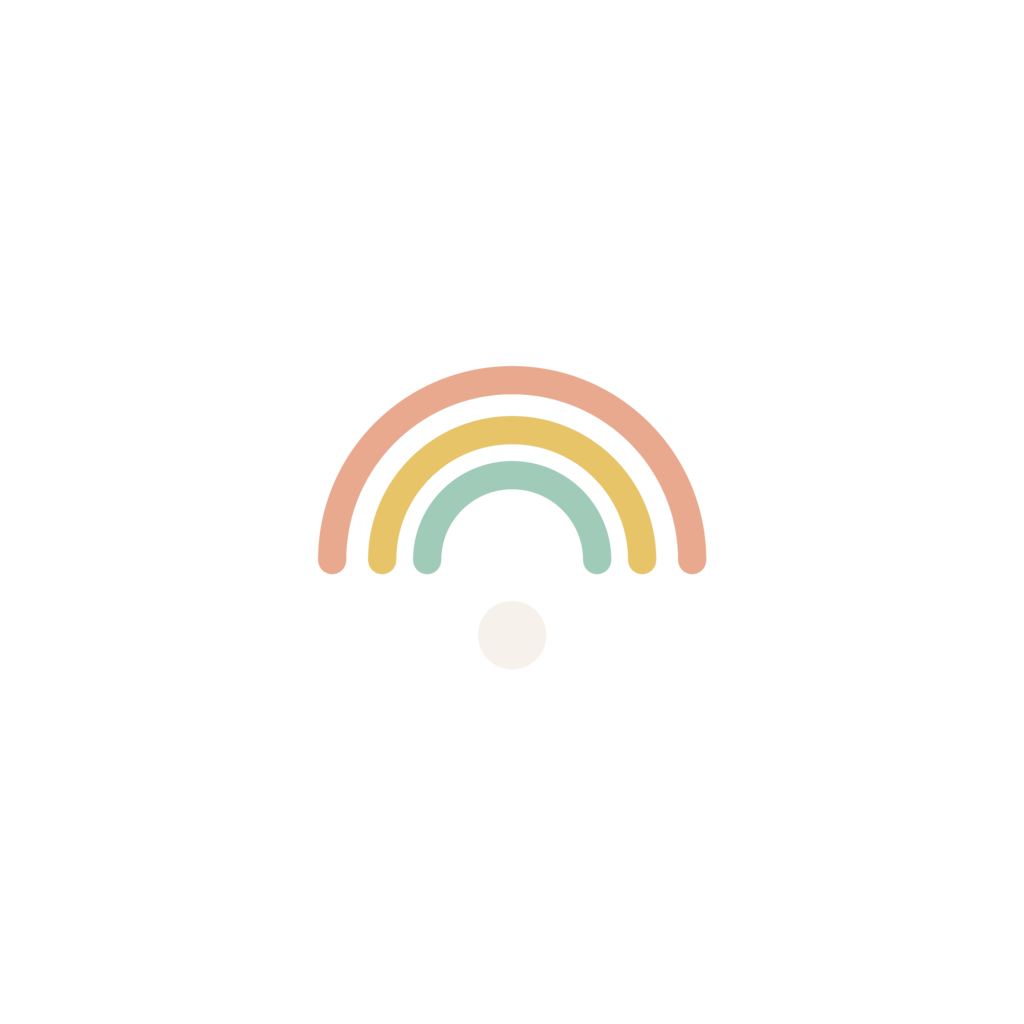
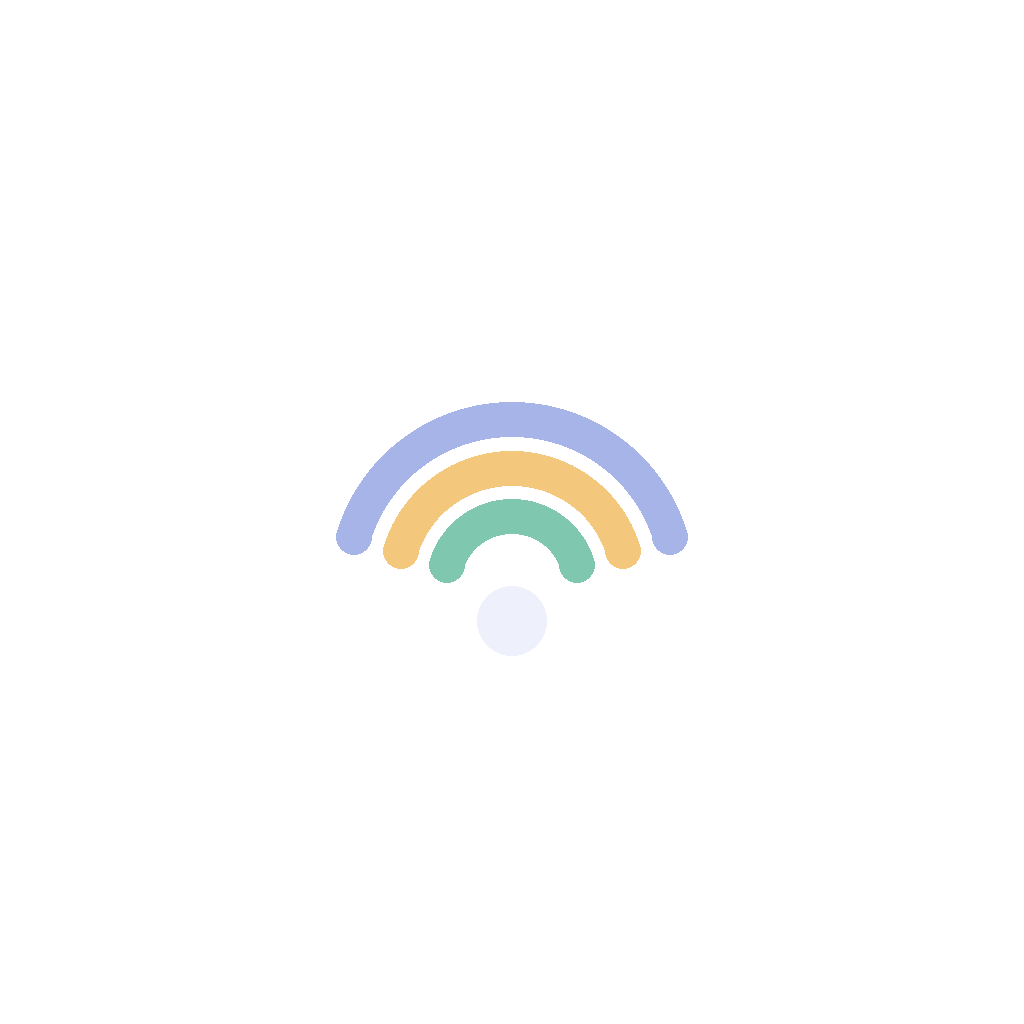
Midnight Signal rebrand: theme, brand assets, share page, defaults

Changed region(s): [[0.3125, 0.3438, 0.6875, 0.5625]]

diff --git a/src/lib/theme.ts b/src/lib/theme.ts
@@ -3,31 +3,38 @@
 // Large touch targets and generous spacing throughout, since chronic pain
 // and fatigue can affect fine motor control (Section 8 accessibility note).
 
+// "Midnight Signal" palette - matches the website's rebrand (deep indigo
+// night-sky world, lavender mist text, one warm golden accent). Dark mode is
+// the flagship look; light mode is a soft lavender paper, never stark white.
 export const lightTheme = {
   mode: "light" as const,
-  background: "#F6F1EB", // warm off-white, not clinical white
-  surface: "#FFFFFF",
-  text: "#2B2622",
-  textMuted: "#6B6259",
-  primary: "#8A6552", // warm terracotta, not clinical blue/green
-  primarySoft: "#EFE0D6",
-  border: "#E3D8CC",
+  background: "#EDF0FA", // lavender paper, not stark white
+  surface: "#F8F9FE",
+  text: "#1C2240",
+  textMuted: "#545D8A",
+  primary: "#3E4C8F", // deep indigo
+  onPrimary: "#FFFFFF",
+  primarySoft: "#DDE3F8",
+  border: "#CDD4EE",
   danger: "#B3413A",
-  success: "#5C7A5A",
+  onDanger: "#FFFFFF",
+  success: "#2F6B55",
   minTouchTarget: 48,
 };
 
 export const darkTheme = {
   mode: "dark" as const,
-  background: "#1E1A17",
-  surface: "#2A2420",
-  text: "#F1EAE3",
-  textMuted: "#C9BEB3",
-  primary: "#D8A588",
-  primarySoft: "#3A2E27",
-  border: "#3E332B",
+  background: "#0B1128", // midnight
+  surface: "#151D3E",
+  text: "#EEF1FC",
+  textMuted: "#A9B4DC",
+  primary: "#F3C77C", // warm gold - the one accent in the night sky
+  onPrimary: "#3B2508",
+  primarySoft: "#26305C",
+  border: "#2C3560",
   danger: "#E08079",
-  success: "#8FB78C",
+  onDanger: "#2B0F0C",
+  success: "#7FC7AE",
   minTouchTarget: 48,
 };
 

diff --git a/web/index.html b/web/index.html
@@ -15,8 +15,8 @@
   body {
     margin: 0;
     font-family: -apple-system, BlinkMacSystemFont, "Segoe UI", Roboto, sans-serif;
-    background: #F6F1EB;
-    color: #2B2622;
+    background: #0B1128;
+    color: #EEF1FC;
     display: flex;
     min-height: 100vh;
     align-items: center;
@@ -24,18 +24,19 @@
     padding: 24px;
   }
   .card {
-    background: #FFFFFF;
-    border-radius: 16px;
+    background: #151D3E;
+    border: 1px solid #2C3560;
+    border-radius: 20px;
     padding: 32px 24px;
     max-width: 420px;
     width: 100%;
-    box-shadow: 0 2px 12px rgba(0,0,0,0.06);
+    box-shadow: 0 8px 32px rgba(4,8,24,0.5);
   }
-  .label { color: #6B6259; font-size: 14px; margin-bottom: 8px; }
+  .label { color: #A9B4DC; font-size: 14px; margin-bottom: 8px; }
   .message { font-size: 20px; line-height: 1.5; margin-bottom: 16px; }
-  .timestamp { color: #6B6259; font-size: 13px; }
-  .error { color: #B3413A; }
-  .history-item { padding: 8px 0; border-top: 1px solid #E3D8CC; }
+  .timestamp { color: #8FA0D8; font-size: 13px; }
+  .error { color: #E08079; }
+  .history-item { padding: 8px 0; border-top: 1px solid #2C3560; }
 </style>
 </head>
 <body>

diff --git a/web/privacy-policy.html b/web/privacy-policy.html
@@ -19,25 +19,26 @@
   body {
     margin: 0;
     font-family: -apple-system, BlinkMacSystemFont, "Segoe UI", Roboto, sans-serif;
-    background: #F6F1EB;
-    color: #2B2622;
+    background: #0B1128;
+    color: #EEF1FC;
     padding: 24px;
     line-height: 1.6;
   }
   .card {
-    background: #FFFFFF;
-    border-radius: 16px;
+    background: #151D3E;
+    border: 1px solid #2C3560;
+    border-radius: 20px;
     padding: 32px 24px;
     max-width: 640px;
     margin: 0 auto;
-    box-shadow: 0 2px 12px rgba(0,0,0,0.06);
+    box-shadow: 0 8px 32px rgba(4,8,24,0.5);
   }
   h1 { font-size: 26px; margin-bottom: 4px; }
-  .updated { color: #6B6259; font-size: 14px; margin-bottom: 28px; }
+  .updated { color: #A9B4DC; font-size: 14px; margin-bottom: 28px; }
   h2 { font-size: 18px; margin-top: 28px; margin-bottom: 8px; }
   p { margin: 0 0 12px; }
-  a { color: #8A6552; }
-  .footer { color: #6B6259; font-size: 13px; margin-top: 32px; padding-top: 16px; border-top: 1px solid #E3D8CC; }
+  a { color: #A7B4E8; }
+  .footer { color: #A9B4DC; font-size: 13px; margin-top: 32px; padding-top: 16px; border-top: 1px solid #2C3560; }
 </style>
 </head>
 <body>

diff --git a/src/constants/backgroundLibrary.ts b/src/constants/backgroundLibrary.ts
@@ -196,15 +196,20 @@ export const BACKGROUND_SCREEN_LABELS: Record<BackgroundScreenKey, string> = {
 // journal = quiet reflection, crisis = muted/gentle (never showy on this
 // one), recipients = connection, login/signup = fresh start, settings =
 // neutral backdrop.
+// Midnight Signal rebrand: the first-run screens (welcome, login, signup,
+// checkin) now default to dusk/night photography so the out-of-box app
+// matches the website's deep-indigo brand world. Warmer photos remain the
+// defaults where emotional warmth matters more than brand (share, history),
+// and crisis stays deliberately muted.
 export const DEFAULT_BACKGROUNDS: Record<BackgroundScreenKey, BackgroundImageId> = {
-  welcome: "cairn",
-  checkin: "lake",
+  welcome: "auroraTrees",
+  checkin: "mistyForestLake",
   share: "companion",
   history: "goldenAutumnLake",
   journal: "dolomites",
   crisis: "mistyWater",
   recipients: "gardenBridge",
-  login: "lanternBeach",
-  signup: "azaleaFalls",
+  login: "solitaryDock",
+  signup: "starryNight",
   settings: "forestPeaks",
 };

diff --git a/src/lib/pdfReport.ts b/src/lib/pdfReport.ts
@@ -40,14 +40,14 @@ function buildReportHtml(opts: { rangeLabel: string; summaryText: string; rows: 
       <head>
         <meta charset="utf-8" />
         <style>
-          body { font-family: -apple-system, Helvetica, Arial, sans-serif; color: #2B2622; padding: 32px; }
+          body { font-family: -apple-system, Helvetica, Arial, sans-serif; color: #1C2240; padding: 32px; }
           h1 { font-size: 22px; margin-bottom: 4px; }
-          .muted { color: #6B6259; font-size: 13px; margin-bottom: 24px; }
-          .summary { background: #F6F1EB; border-radius: 12px; padding: 16px; font-size: 15px; line-height: 1.5; margin-bottom: 24px; }
+          .muted { color: #545D8A; font-size: 13px; margin-bottom: 24px; }
+          .summary { background: #EDF0FA; border-radius: 12px; padding: 16px; font-size: 15px; line-height: 1.5; margin-bottom: 24px; }
           table { width: 100%; border-collapse: collapse; font-size: 13px; }
-          th, td { text-align: left; padding: 8px 10px; border-bottom: 1px solid #E3D8CC; }
-          th { color: #6B6259; font-weight: 600; }
-          .disclaimer { margin-top: 28px; font-size: 11px; color: #6B6259; line-height: 1.5; }
+          th, td { text-align: left; padding: 8px 10px; border-bottom: 1px solid #CDD4EE; }
+          th { color: #545D8A; font-weight: 600; }
+          .disclaimer { margin-top: 28px; font-size: 11px; color: #545D8A; line-height: 1.5; }
         </style>
       </head>
       <body>

diff --git a/src/context/ThemeContext.tsx b/src/context/ThemeContext.tsx
@@ -17,7 +17,14 @@ export function ThemeProvider({ children }: { children: React.ReactNode }) {
   const [override, setOverride] = useState<"light" | "dark" | null>(null);
   const [highContrast, setHighContrast] = useState(false);
 
-  const isDark = (override ?? systemScheme) === "dark";
+  // Midnight is the flagship brand look (matches the website's rebrand), so
+  // the app opens dark by default - like Calm - rather than following the
+  // system scheme. The in-app toggle (Settings) still lets anyone switch to
+  // the soft lavender light mode; that explicit choice always wins.
+  // systemScheme is intentionally unused for the default but kept so a
+  // future "follow system" setting is a one-line change.
+  void systemScheme;
+  const isDark = (override ?? "dark") === "dark";
   const baseTheme = isDark ? darkTheme : lightTheme;
 
   const theme = useMemo(() => {

diff --git a/src/screens/pro/UpgradeScreen.tsx b/src/screens/pro/UpgradeScreen.tsx
@@ -105,7 +105,7 @@ export function UpgradeScreen() {
               >
                 {p.savePercent ? (
                   <View style={[styles.saveBadge, { backgroundColor: theme.primary }]}>
-                    <Text style={styles.saveBadgeText}>Save {p.savePercent}%</Text>
+                    <Text style={[styles.saveBadgeText, { color: theme.onPrimary }]}>Save {p.savePercent}%</Text>
                   </View>
                 ) : null}
                 <Text style={{ color: theme.text, fontWeight: "700" }}>{p.label}</Text>
@@ -179,7 +179,7 @@ const styles = StyleSheet.create({
     paddingVertical: 2,
     borderRadius: 10,
   },
-  saveBadgeText: { color: "#FFFFFF", fontSize: 11, fontWeight: "700" },
+  saveBadgeText: { fontSize: 11, fontWeight: "700" },
   price: { fontSize: fontSizes.title, fontFamily: fonts.bodyBold, marginVertical: spacing.xs },
   alreadyPro: { textAlign: "center", fontWeight: "600", marginBottom: spacing.md },
   welcomeBackdrop: {

diff --git a/src/components/PrimaryButton.tsx b/src/components/PrimaryButton.tsx
@@ -24,7 +24,8 @@ export function PrimaryButton({
 
   const bg =
     variant === "primary" ? theme.primary : variant === "danger" ? theme.danger : theme.primarySoft;
-  const fg = variant === "secondary" ? theme.text : "#FFFFFF";
+  const fg =
+    variant === "secondary" ? theme.text : variant === "danger" ? theme.onDanger : theme.onPrimary;
 
   return (
     <Pressable

diff --git a/src/components/ConfettiBurst.tsx b/src/components/ConfettiBurst.tsx
@@ -3,7 +3,7 @@ import { Animated, Dimensions, Easing, StyleSheet, View } from "react-native";
 
 const { width: SCREEN_W, height: SCREEN_H } = Dimensions.get("window");
 
-const COLORS = ["#D8A588", "#8A6552", "#5C7A5A", "#EFE0D6", "#F1EAE3", "#B3413A"];
+const COLORS = ["#F3C77C", "#A7B4E8", "#7FC7AE", "#EEF1FC", "#8FA0D8", "#E8C98A"];
 const PIECE_COUNT = 40;
 
 type Piece = {

diff --git a/src/components/ScaleInput.tsx b/src/components/ScaleInput.tsx
@@ -45,7 +45,7 @@ export function ScaleInput({ label, value, onChange, scaleLabels }: Props) {
               <Text
                 style={[
                   styles.pillText,
-                  { color: selected ? "#FFFFFF" : theme.text },
+                  { color: selected ? theme.onPrimary : theme.text },
                 ]}
                 numberOfLines={2}
               >

diff --git a/PROJECT-STATUS.md b/PROJECT-STATUS.md
@@ -1,0 +1,74 @@
+# Quiet Signal — Project Status Handoff
+
+Owner: Richard ([email redacted]). Local repo: `C:\dev\quiet-signal`. GitHub: `https://github.com/Valentigo-Ai/quiet-signal.git`. Supabase project: `quiet-signal` (id `bzczbsrtbnqiydscvnak`, region eu-west-2, free tier).
+
+Note on wording: avoid describing this as a "clinical" anything (even negated, e.g. "non-clinical mental health app") in external copy or summaries — "clinical" is a legally sensitive word for this product. Internal code comments saying "not clinical" / "never clinical" are fine and intentional.
+
+## What this is
+
+**Quiet Signal** is a daily pain/anxiety/energy check-in app: a person logs a quick check-in plus an optional note, can share a simple honest status with someone they trust (no login required for the recipient), gets weekly personal-reflection insights from their own journal entries (sentiment + themes, framed as a reflection aid, never diagnostic), and can export their own history as a PDF. There's a free tier and a Pro tier (unlocks a large library of background photos, longer history, etc. — real payment processing is not wired up yet, see below). Explicitly **not** a crisis service or medical device — it has a mandatory crisis-language safety net that excludes anything flagged from insights and shows a Crisis Resources screen, but never tries to respond to or assess a crisis itself.
+
+Stack: Expo / React Native (mobile) with a web export of the same app, Supabase for backend (Postgres + RLS, Edge Functions, pg_cron), no AI vendor anywhere in the product (sentiment/theme detection is lexicon/regex-based, on purpose).
+
+**Two deployed surfaces:**
+- **The app** — mobile via Expo Go / eventual store builds, plus a web build hosted at `https://quietsignal.co.uk/app/`.
+- **The marketing website** — WordPress (Twenty Twenty-Five theme) at `https://quietsignal.co.uk/`, hosted on Hostinger. Home / About / Support / Privacy Policy pages, branded to match the app (Cream/Terracotta/Dark Text palette, Fraunces + Karla fonts, hero photography from the app's own background library).
+
+## What's been done (this session)
+
+**Web app deployment (was broken, now fixed and verified live):**
+- Root cause: Expo's web export used absolute root paths (`/_expo/...`) which 404'd because the site's actual root is WordPress, not the app — it's hosted in a `/app/` subfolder.
+- Fix: added `"experiments": { "baseUrl": "/app" }` to `app.json`, rebuilt, redeployed to Hostinger's `public_html/app/`.
+- Verified live via browser: `quietsignal.co.uk/app/` renders the full onboarding UI correctly, no blank page.
+
+**Website bugs (all fixed and verified live):**
+- Footer on both template parts (`Footer` and `footer-landing`) had raw, unlocalized placeholder tokens shipped by the Hostinger AI theme builder (`trans-contacts`, `trans-current-year`, etc.) instead of real content, plus a completely broken/deleted navigation menu and a dead email link. Fixed: working nav menu (Home/About/Support/Privacy Policy/Terms), `[email redacted]` as a real `mailto:` link, "Follow us", "© 2026 All rights reserved."
+- Newsletter signup form was non-functional (Hostinger Reach, not connected to any account). Compared free alternatives per Richard's request, chose and installed **MailPoet** (free tier, 500 subscribers / 5,000 emails/month, no separate SMTP needed). Configured sender identity, authorized `[email redacted]`, built a "Footer Newsletter Signup" form, wired it into both footer template parts, end-to-end tested with a real signup on the live site — works.
+- Deactivated the now-unused Hostinger Reach plugin.
+
+**Supabase backend audit (found and fixed a real security gap):**
+- Two nightly `pg_cron` jobs exist: `nightly-journal-scan` (crisis-language check + sentiment/theme insights, 03:00 UTC) and `checkin-archive-scan` (90-day retention → monthly summaries, 03:15 UTC — this was already built, not something done this session, just discovered/confirmed working).
+- Both check a `CRON_SECRET` header, but the check was written as `if (cronSecret && ...)` — since `CRON_SECRET` had never actually been set as an Edge Function secret, the check silently no-opped, **meaning both endpoints were publicly callable by anyone with the URL** (no `verify_jwt` either, by design, since they're meant to be cron-only).
+- Fixed: retrieved the correct secret value from Supabase Vault and set it as the project's `CRON_SECRET` Edge Function secret (this is a project-wide secret store, one setting covers all functions). Verified via SHA256 digest match that the value now matches exactly what `pg_cron` sends.
+- Also set `RECIPIENT_WEB_URL = https://quietsignal.co.uk/share/` so shared check-in links resolve to the real recipient page (already built and live at `/share/`) instead of falling back to raw JSON.
+- Crisis-language wordlist in `nightly-journal-scan` (`supabase/functions/nightly-journal-scan/index.ts`) was reviewed — already broadened to ~22 regex patterns covering common crisis phrasings, currently deployed (version 4). **Still explicitly marked ship-blocking in the code's own comments pending a real clinical/safety professional's sign-off** — see "What's left," this can't be closed out by AI review alone.
+
+**App code / git (found uncommitted work already built, got it shipped):**
+- Local repo had real, working, uncommitted features: PDF check-in report export (`src/lib/pdfReport.ts`, uses `expo-print`/`expo-sharing` on native, browser print-to-PDF on web), a Backgrounds "teaser gallery" on the check-in screen (`src/components/BackgroundTeaserGallery.tsx` — surfaces the full Pro photo library as a browsable upsell instead of a locked text button), plus fixes to settings tab reset, sign-up screen contrast, and the Pro purchase celebration flow.
+- Committed and pushed (`0789e442`), then cleaned up an accidentally-committed 24.7 MB `dist.zip` build artifact that slipped into that commit (`git rm --cached`, added to `.gitignore`, follow-up commit `c71198a4`, pushed).
+- Repo is now clean and up to date on GitHub.
+
+## What's been done (design pass session)
+
+Richard asked for a deep dive on why the app and website felt "bland" rather than premium/Calm-tier, and for direct fixes.
+
+- **Audit produced:** `docs/design-audit.md` — reviewed live site/app screenshots, the app's `theme.ts`/component code, and current UX research on Calm/Headspace's design systems. Diagnosis: good bones (warm non-clinical palette, Fraunces+Karla type pairing, generous touch targets) but almost none of what makes premium wellness apps feel premium — color-graded photography, motion/easing, and an icon language. App codebase confirmed via grep to have **zero animation anywhere** except one confetti component.
+- **Website fixes shipped live** (WordPress Site Editor + Additional CSS, cache purged and verified after each change):
+  - Unified warm terracotta color-grade CSS filter applied across all three homepage stock photos (previously three different, mismatched color temperatures).
+  - Footer recolored from flat WordPress-default near-black (`#2C2A29`) to a warm brown (`#3D2B22`) via the theme's global color palette (`color-2`), consistent with the rest of the brand.
+  - Gentle load-in motion added (CSS-only, respects `prefers-reduced-motion`) plus a lift/shadow hover state on all buttons — previously the site had zero motion of any kind.
+  - Added a "Get notified at launch" CTA button in the hero, linked via HTML anchor to the existing MailPoet newsletter signup in the footer — confirmed working end to end (scroll-to-anchor tested live).
+- **Found but not fixed:** the footer's social links (Facebook/Instagram/TikTok/WhatsApp) are placeholder URLs (`trans-social_facebook_url` etc.), not real links — needs Richard's actual account URLs.
+- **Not yet done:** small line icons for the three homepage text sections (cheapest remaining visual win, paused before starting). App-side changes (motion, frosted onboarding cards, icon language, fixing the web export's desktop layout) — none started yet, scoped in the audit doc.
+
+## What's left to do
+
+Everything below genuinely needs Richard's own accounts/access — none of it can be done by an AI agent:
+
+1. **Clinical/safety review of the crisis-language wordlist.** The current list is a good-faith engineering pass, not a substitute for review by an actual mental-health/safety professional. This is explicitly called out as ship-blocking in the code itself (`supabase/functions/nightly-journal-scan/index.ts`).
+2. **Real Pro tier payments.** `src/context/ProContext.tsx` currently stubs `purchasePro`/`restorePurchases` (marked `TODO(payments)`) — needs RevenueCat + Play Billing account setup and integration. Requires creating external accounts, which is outside what I can do.
+3. **Google Play Console:** Health apps declaration form, Data Safety section — needs Richard's own Play Console access.
+4. **Google Sign-In OAuth consent screen verification** — needs Google Cloud Console access.
+5. **`npm audit`** — 13 moderate findings reported earlier; needs to be run locally (the sandbox environment used for this session has an unreliable file mount for npm operations on this repo).
+6. **Two low-priority Supabase security advisories** (not urgent, no user data at risk currently): the `pg_net` extension is installed in the `public` schema (should be moved to its own schema), and leaked-password protection is disabled in Supabase Auth settings (recommend enabling — checks new passwords against HaveIBeenPwned).
+7. **Medical device classification** — informally assessed as low-risk earlier in the project; a second opinion from a professional/legal reviewer was recommended but never obtained.
+8. **Old OneDrive folder cleanup** — minor local-machine housekeeping mentioned early in the project, low priority.
+
+## Quick reference
+
+- Repo: `C:\dev\quiet-signal` / `https://github.com/Valentigo-Ai/quiet-signal.git`
+- Supabase project ID: `bzczbsrtbnqiydscvnak` (region eu-west-2)
+- Live app: `https://quietsignal.co.uk/app/`
+- Live website: `https://quietsignal.co.uk/`
+- Live recipient share page: `https://quietsignal.co.uk/share/`
+- Edge functions: `generate-message`, `share-checkin`, `get-shared-message`, `nightly-journal-scan`, `delete-account`, `checkin-archive-scan`

diff --git a/docs/design-audit.md b/docs/design-audit.md
@@ -1,0 +1,28 @@
+# Quiet Signal — Design Audit: Getting to "Calm-tier"
+
+Reviewed live: quietsignal.co.uk (website), quietsignal.co.uk/app/ (pre-login flow), theme.ts and component code in the repo. Compared against calm.com and current UX research on Headspace/Calm's design systems.
+
+## The core diagnosis
+
+The bones are genuinely good — warm non-clinical palette, a proper brand serif (Fraunces) paired with a clean sans (Karla), generous touch targets, subtle card shadows. It reads as *safe and calm*. It doesn't yet read as *premium*, because premium wellness brands add three things this build has almost none of: **color-graded imagery** (not raw stock photos), **motion** (eases, transitions, feedback), and **a visual icon language** (not just text). Right now every screen is: photo + white card + text + solid button. That sameness is what's making it feel bland rather than considered.
+
+## Website (quietsignal.co.uk)
+
+1. **Inconsistent stock photography.** Hero is a mountain sunset, next section a lake dock, next a waterfall garden — three different color temperatures, none graded to the brand's terracotta. Calm/Headspace never show raw stock; everything's tinted to their palette so it feels shot *for* the brand. Fix: apply a consistent warm-terracotta duotone/gradient overlay across all section photos.
+2. **No product visualization.** The whole homepage is text-on-photo with zero screenshots of the actual app. Visitors can't see what they're signing up for. Every premium app landing page leads with a phone mockup. Fix: add a phone-frame mockup of the check-in screen near the hero.
+3. **Walls of paragraph text, no icons.** "What it does," "Share a status," "Your data stays yours" are all plain centered paragraphs. Fix: give each section a small line-icon (in the brand terracotta) — this is a five-minute visual win that breaks up the monotony.
+4. **Footer doesn't match the brand.** Warm cream/terracotta site suddenly hits a flat near-black WordPress-default footer. Fix: recolor to a deep warm brown consistent with the rest of the palette.
+5. **No motion at all.** Sections just appear. Fix: simple fade/slide-in on scroll (a few lines of CSS/JS) — cheap, and it's exactly the kind of "slow, easing" motion the research calls out as core to why Calm feels calming rather than static.
+6. **Hero has no CTA button**, just italic "Coming soon" text. Even pre-launch, a disabled-style "Notify me" button (wired to the newsletter signup you already have via MailPoet) reads more finished than a caption.
+
+## App (pre-login flow + code)
+
+1. **Zero animation anywhere in the codebase** — confirmed by grep; only `ConfettiBurst` uses any animation API. Headspace's whole "feel" is slow easing curves on every transition. Fix: add subtle fade/scale transitions between onboarding screens, a spring-press on `PrimaryButton`, and an eased fill animation on `ScaleInput` selection.
+2. **Onboarding card is a flat white rectangle with a hard drop shadow** sitting on top of a busy photo. Fix: switch to a frosted/blurred glass card (`backdrop-filter` on web, `expo-blur` on native) — this is the single highest-impact "2025 calm-UX" trend in the research and would look immediately more premium than solid white.
+3. **No icon language.** Pain/Anxiety/Energy are plain text labels with no visual marker. A small custom icon set (in the terracotta accent, rounded/soft like Headspace's characters) would make the check-in screen feel designed rather than default.
+4. **Web export breaks on desktop.** At desktop widths the app stretches full-bleed edge to edge instead of staying in a centered mobile-frame column — this is what quietsignal.co.uk/app/ looks like today, and it reads as unfinished to anyone who opens it on a laptop.
+5. **Photo inconsistency mirrors the website issue** — onboarding uses a mountain/rock-cairn photo, check-in uses whatever's in `getSource`, none color-graded to match. Same duotone fix as the website.
+
+## Suggested order of attack
+
+Given how much surface area this is, the highest-leverage fixes for the least effort are: (1) a consistent brand color-grade over all photography on both surfaces, (2) motion/easing added to transitions and button presses, (3) icons replacing bare text in a few key spots. Those three alone are most of what separates "bland" from "Calm-tier" per the research — before touching layout or copy.